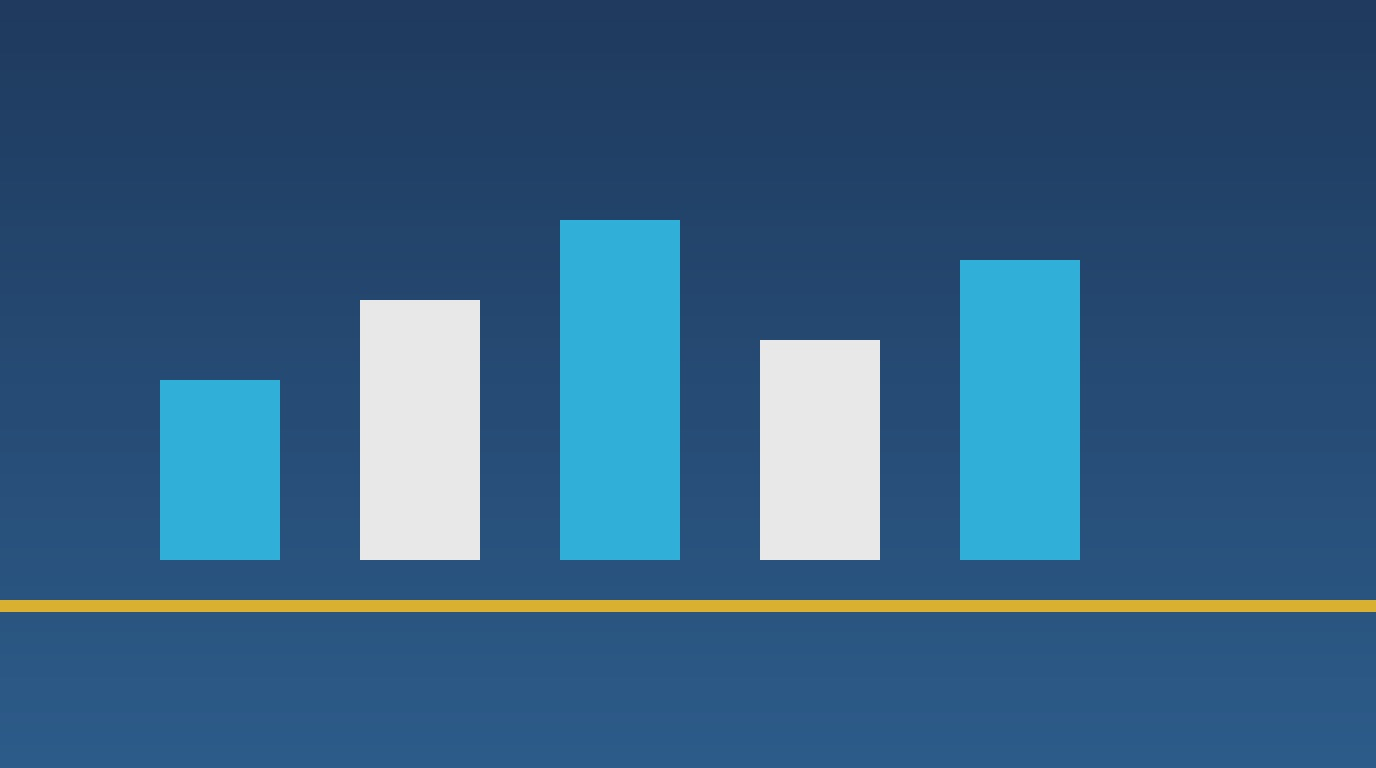
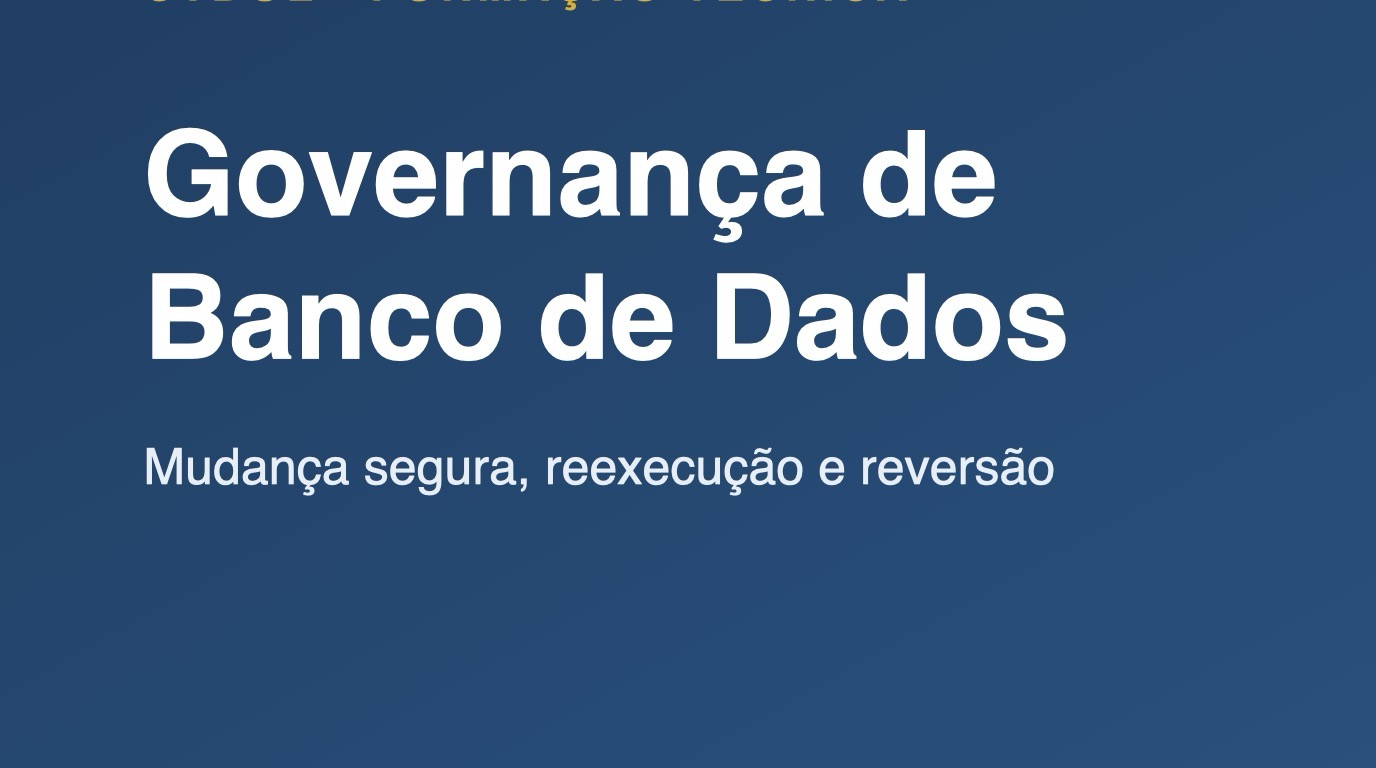
feat(cursos): ampliar governanca-banco-dados com glossário, exercícios, laboratório e capa com título
Aulas expandidas (de 937 para cerca de 1.700 palavras), com glossário e exercícios
em cada uma. Laboratório de aplicação do gate de governança (aula 05). Capa com
título e identidade CTDOL, em 16:9. Títulos das aulas mantidos, para que a
atualização no Moodle seja feita in place.

diff --git a/courses/governanca-banco-dados/lessons/03-migracoes-versionadas-e-reexecutaveis.md b/courses/governanca-banco-dados/lessons/03-migracoes-versionadas-e-reexecutaveis.md
@@ -1,21 +1,42 @@
 # Aula 03: Migrações versionadas e reexecutáveis (Nível N2)
 
 ## Objetivo
-Escrever migrações que podem ser reexecutadas sem quebrar o banco.
+Escrever migrações que podem ser reexecutadas sem quebrar o banco, e entender por que a reexecução acontece.
 
 ## Versionamento
-Cada migração tem um identificador e uma ordem. Uma migração aplicada nunca é editada. Se algo estiver errado, a correção é uma nova migração.
+Cada migração tem um identificador e uma ordem. Uma migração aplicada nunca é editada. Se algo estiver errado, a correção é uma nova migração que vem depois.
 
-## Por que reexecutar acontece
-Um pipeline falha no meio e é reexecutado. Alguém roda o script duas vezes por engano. Dois ambientes recebem a mesma mudança em momentos diferentes. Em qualquer desses casos, a migração pode rodar mais de uma vez.
+## Por que a reexecução acontece
+- Um pipeline falha no meio e é reexecutado do início.
+- Alguém roda o script duas vezes por engano.
+- Dois ambientes recebem a mesma mudança em momentos diferentes.
+
+Em qualquer desses casos, a migração pode rodar mais de uma vez. Se o segundo disparo falhar com "coluna já existe", um incidente pequeno vira uma implantação bloqueada.
 
 ## Idempotência
-Uma operação é idempotente quando executá-la uma vez ou várias vezes produz o mesmo estado final. Na prática, isso se obtém de duas formas:
-1. **Guarda de existência:** antes de criar, verifica-se se o objeto já existe. Por exemplo, `IF NOT EXISTS`, ou uma consulta ao catálogo do banco.
-2. **Tabela de controle:** registra-se quais migrações já foram aplicadas, de forma que o registro não se duplique em uma nova execução.
+Uma operação é idempotente quando executá-la uma vez ou várias vezes produz o mesmo estado final. Na prática, há duas formas de obter isso:
+1. **Guarda de existência:** antes de criar, verifica-se se o objeto já existe. Por exemplo, usando a cláusula `IF NOT EXISTS`, ou uma consulta ao catálogo do banco.
+2. **Tabela de controle:** registra-se quais migrações já foram aplicadas, e o registro não se duplica numa nova execução.
+
+## Exemplo
+Uma migração que adiciona a coluna `ultimo_acesso`:
+- Versão frágil: `ALTER TABLE usuarios ADD COLUMN ultimo_acesso TIMESTAMP;` falha na segunda execução.
+- Versão reexecutável: primeiro verifica se a coluna existe; só então adiciona. A segunda execução não faz nada.
 
 ## Um detalhe que depende do motor
-Em alguns motores, uma instrução de mudança de esquema é confirmada sozinha. Se uma migração de várias etapas falha no meio, o banco fica pela metade, sem reversão automática. Por isso, a guarda precisa funcionar sem depender de rollback.
+Em alguns motores, uma instrução de mudança de esquema é confirmada sozinha. Se uma migração de várias etapas falha no meio, o banco fica pela metade, sem reversão automática. Por isso, a guarda precisa funcionar sem depender de rollback. Antes de escrever a migração, vale saber como o motor trata a mudança de esquema dentro de uma transação.
+
+## Glossário
+- **Migração:** arquivo com uma mudança de esquema ou de dados, com identificador e ordem.
+- **Idempotente:** que produz o mesmo resultado independentemente do número de execuções.
+- **Guarda de existência:** verificação antes de criar ou remover um objeto.
+- **Tabela de controle:** registro das migrações já aplicadas no banco.
+- **Reexecução:** nova execução de uma migração, por retry ou por engano.
+
+## Exercícios
+1. Escreva, em pseudocódigo, uma migração que cria uma tabela `logs_acesso` de forma reexecutável.
+2. Explique por que editar uma migração já aplicada em produção pode divergir os ambientes.
+3. Dada uma migração que altera três colunas, descreva o que acontece se a execução parar após a segunda.
 
 ## Verificação rápida
 - Por que editar uma migração já aplicada em produção é um erro?

diff --git a/courses/governanca-banco-dados/lessons/01-o-banco-como-estado.md b/courses/governanca-banco-dados/lessons/01-o-banco-como-estado.md
@@ -1,19 +1,31 @@
 # Aula 01: O banco como estado e a governança da mudança (Nível N0)
 
 ## Objetivo
-Entender por que a mudança em banco de dados exige um tratamento diferente da mudança de código.
+Entender por que a mudança em banco de dados exige um tratamento diferente da mudança de código, e reconhecer os riscos de uma alteração feita fora de controle.
 
 ## O problema
-Código pode ser reimplantado a partir de um commit. O banco não. Ele guarda dados, e cada mudança se acumula sobre a anterior. Por isso, um ajuste feito à mão em um ambiente e esquecido no roteiro de produção só aparece quando uma requisição falha.
+Código pode ser reimplantado a partir de um commit. O banco não. Ele guarda dados, e cada mudança se acumula sobre a anterior. Um ajuste de estrutura feito à mão em um ambiente, e esquecido no roteiro de produção, aparece só quando uma requisição falha.
+
+Imagine um sistema com tabelas de clientes e pedidos. A equipe adiciona uma coluna para o status do pedido. Em homologação, o comando é rodado. Em produção, ninguém roda. Na próxima versão do código, a aplicação lê a coluna, recebe um erro e para de funcionar. Nenhuma linha de código estava errada: o estado do banco é que não acompanhava o código.
 
 ## Três ideias centrais
-1. **Versionar o esquema:** a estrutura do banco fica sob controle de versão, do mesmo modo que o código. Toda mudança entra por revisão antes de atingir qualquer banco.
-2. **Mudança pequena e ordenada:** cada alteração é uma migração com identificador e ordem. Nenhuma migração já aplicada é reescrita.
-3. **Mudança que não quebra quem já usa o banco:** a alteração acontece em fases que coexistem, de forma que a versão antiga continue funcionando até o último consumidor migrar.
+1. **Versionar o esquema:** a estrutura do banco fica sob controle de versão, do mesmo jeito que o código. Toda mudança passa por revisão antes de atingir qualquer banco.
+2. **Mudança pequena e ordenada:** cada alteração é uma migração, com identificador e ordem. Uma migração já aplicada não é reescrita.
+3. **Mudança que não quebra quem usa o banco:** a alteração acontece em fases que coexistem, de forma que a versão antiga continue funcionando até o último consumidor migrar.
 
-## O que você deve levar desta aula
-- Mudança de banco é mudança de estado. Reverter nem sempre é possível.
-- A governança é a régua que define quando uma mudança pode seguir.
+## Por que isso importa para a governança
+A governança é a régua que decide quando uma mudança pode seguir. Ela responde a três perguntas: esta mudança é rastreável? Ela pode ser repetida sem dano? E, se der errado, até onde é possível voltar? As próximas aulas tratam cada uma dessas perguntas.
+
+## Glossário
+- **Esquema:** a estrutura do banco, com tabelas, colunas, chaves e restrições.
+- **Migração:** uma alteração do esquema ou dos dados, com identificador e ordem.
+- **Estado:** o conjunto de dados e de estrutura em um momento. Banco é estado; código é texto.
+- **Governança de mudança:** o conjunto de regras que decide quando e como uma mudança entra.
+
+## Exercícios
+1. Liste três situações em que um `ALTER` feito à mão em produção causaria problema.
+2. Explique, em duas frases, por que reimplantar código é mais simples do que reimplantar um banco.
+3. Dê um exemplo de mudança de banco que você consideraria arriscada, e diga por quê.
 
 ## Verificação rápida
 - Por que um `ALTER` feito à mão em produção é um risco?

diff --git a/courses/governanca-banco-dados/lessons/04-privilegio-auditoria-e-reversao.md b/courses/governanca-banco-dados/lessons/04-privilegio-auditoria-e-reversao.md
@@ -4,21 +4,37 @@
 Controlar quem pode mudar o banco, registrar quem mudou e saber até onde é possível voltar.
 
 ## Privilégio mínimo
-Cada conta de banco recebe apenas as permissões que a aplicação precisa para funcionar. Isso significa separar o papel que executa migrações do papel que a aplicação usa. A aplicação não deve ter permissão de alteração de esquema. Uma falha na aplicação, assim, não vira uma alteração destrutiva do banco.
+Cada conta de banco recebe apenas as permissões que o sistema precisa para funcionar. Na prática, isso significa separar dois papéis: o que executa migrações e o que a aplicação usa no dia a dia. A aplicação não deve ter permissão de alterar o esquema. Assim, uma falha na aplicação não vira uma alteração destrutiva do banco.
+
+Um exemplo: a aplicação lê e grava nos pedidos, mas não pode apagar tabelas. A migração roda com uma conta própria, usada só durante a implantação.
 
 ## Auditoria
-A aplicação de cada mudança precisa ficar registrada, com autor, data e identificador. O registro precisa ser protegido contra alteração:
+A aplicação de cada mudança precisa ficar registrada, com autor, data e identificador. O registro também precisa ser protegido contra alteração:
 - detectar se um registro foi modificado ou apagado;
 - guardar cópias em mídia somente leitura, quando possível;
 - restringir e revisar quem pode ler o registro.
 
+Um registro que pode ser editado por quem ele audita perde o valor de prova.
+
 ## Reversão por tipo de mudança
 - **Expansão:** reverter remove a estrutura nova. Só se perdem os dados gravados nela depois da expansão.
 - **Migração de dados:** reverter limpa a estrutura nova e reinicia a migração. Não há perda enquanto a antiga continua viva.
-- **Contração:** reverter exige restaurar um backup. Há perda de dados.
+- **Contração:** reverter exige restaurar um backup. Há perda de dados desde a contração.
 
 ## Em produção
 A correção de um erro em produção normalmente é uma nova migração para frente, e não uma reversão. Reverter por migração em produção só com ordem explícita e backup verificado.
+
+## Glossário
+- **Privilégio mínimo:** princípio de dar a cada conta só as permissões necessárias.
+- **Papel:** identidade de acesso no banco, com permissões próprias.
+- **Trilha de auditoria:** registro protegido de quem mudou o quê e quando.
+- **Ponto sem volta:** o passo a partir do qual reverter depende de backup.
+- **Backup verificado:** cópia de segurança que foi restaurada e testada.
+
+## Exercícios
+1. Liste as permissões mínimas que uma aplicação de cadastro de clientes precisa.
+2. Descreva o que um atacante ganharia se a aplicação tivesse permissão de criar e apagar tabelas.
+3. Para uma contração já feita, descreva o plano de reversão, e diga em que momento ele deixa de ser possível sem backup.
 
 ## Verificação rápida
 - Qual papel deve executar a migração, e qual deve ser o da aplicação?

diff --git a/courses/governanca-banco-dados/lessons/05-laboratorio-gate-de-governanca.md b/courses/governanca-banco-dados/lessons/05-laboratorio-gate-de-governanca.md
@@ -1,0 +1,51 @@
+# Laboratório: aplicando o gate de governança de banco (Nível N3)
+
+## Objetivo
+Analisar uma mudança de banco com a mesma régua de oito critérios usada pelas equipes, e registrar a decisão com evidência.
+
+## O cenário
+A equipe quer renomear a coluna `telefone` da tabela `clientes` para `telefone_principal`, e remover a coluna antiga no mesmo passo. O plano é uma única migração, rodada em todos os ambientes na mesma semana.
+
+## Tarefa
+Leia o plano acima e responda, para cada critério, se ele está atendido, não atendido, ou não se aplica. Cite a evidência do próprio plano.
+
+| Critério | O que exige | Sua resposta |
+| :-: | :--- | :-: |
+| G1 | Migração versionada, com identificador e ordem | |
+| G2 | Reexecução segura, com guarda de existência | |
+| G3 | Mudança destrutiva em fases: expandir, migrar, contrair | |
+| G4 | Integridade referencial declarada no esquema | |
+| G5 | Privilégio mínimo: a aplicação sem permissão de alterar o esquema | |
+| G6 | Auditoria: quem aplicou, quando e com qual identificador | |
+| G7 | Reversão declarada, com ponto sem volta identificado | |
+| G8 | Mesma migração, mesma ordem, em todos os ambientes | |
+
+## Veredito
+Com base na tabela, escolha um dos três vereditos:
+- **Aprovado:** todos os critérios aplicáveis, com evidência.
+- **Aprovado com lacunas registradas:** G5, G6 ou G7 pendentes, com decisão do responsável anotada.
+- **Bloqueado:** qualquer critério G1 a G4 ou G8 sem evidência. A mudança não avança.
+
+## O que esperar
+O plano tem um problema central: remover a coluna antiga no mesmo passo quebra a fase de contração. A aplicação que ainda lê `telefone` vai falhar. O veredito correto é **bloqueado**, com a recomendação de dividir o trabalho em três fases.
+
+## Reescrevendo o plano
+Refaça o plano em três migrações, uma por fase. Para cada uma, escreva:
+1. o identificador;
+2. a guarda de existência;
+3. a condição para avançar à próxima fase;
+4. o que fazer se a fase falhar.
+
+## Glossário
+- **Gate:** ponto de controle que impede a mudança de avançar sem evidência.
+- **Veredito:** decisão final do gate, com base nos critérios.
+- **Evidência:** trecho, arquivo ou registro que comprova um critério.
+
+## Exercícios
+1. Reescreva a análise supondo que a equipe tenha uma conta separada para migrações. Quais critérios mudam?
+2. Explique por que o veredito "aprovado com lacunas" não serve quando o critério G1 está em aberto.
+3. Escreva uma frase que a equipe possa usar para justificar o veredito "bloqueado" a um gerente de produto.
+
+## Verificação rápida
+- Qual critério o plano atende melhor, e qual atende pior?
+- Em qual fase a coluna antiga deve ser removida?

diff --git a/courses/governanca-banco-dados/lessons/02-mudanca-em-fases.md b/courses/governanca-banco-dados/lessons/02-mudanca-em-fases.md
@@ -9,14 +9,30 @@ Uma mudança incompatível é quebrada em três fases:
 - **Migrar:** os dados são copiados ou transformados, e os consumidores passam a usar a estrutura nova, aos poucos.
 - **Contrair:** depois que nenhum consumidor usa a estrutura antiga, ela é removida.
 
-## Exemplo em banco
-Para renomear uma coluna, a fase de expansão cria a coluna nova e passa a gravar nas duas. A migração copia os dados antigos. Só então as leituras mudam para a coluna nova. A contração remove a coluna antiga.
+## Exemplo: renomear uma coluna
+Suponha que a coluna `nome_cliente` precise se chamar `nome_completo`.
+1. **Expansão:** cria-se `nome_completo`. A aplicação passa a gravar nas duas colunas. As leituras continuam usando `nome_cliente`.
+2. **Migração:** um processo copia os valores antigos para a coluna nova, em lotes. Quando a cópia termina, as leituras mudam para `nome_completo`.
+3. **Contração:** após um período de observação, `nome_cliente` é removida.
+
+Em cada passo, a aplicação continua funcionando. Se algo der errado antes da contração, é possível voltar sem perda.
 
 ## Por que funciona
 Cada fase pode ser implantada sozinha. O risco fica fatiado, e a versão antiga continua disponível até a migração terminar.
 
-## Cuidado com a contração
-A contração é o ponto sem volta. Antes dela, reverter é limpar a estrutura nova. Depois, reverter exige restaurar dados de um backup, com possível perda. Por isso, a contração só acontece depois de um período em que nenhum consumidor usa a estrutura antiga.
+## O ponto sem volta
+A contração é o passo mais perigoso. Antes dela, reverter é apagar a estrutura nova. Depois, reverter exige restaurar um backup, com possível perda de dados. Por isso, a contração só acontece depois de um período em que nenhum consumidor usa a estrutura antiga. Um bom critério é esperar um ciclo completo do negócio, como um fechamento mensal, antes de remover.
+
+## Glossário
+- **Expansão:** a fase em que a estrutura nova convive com a antiga.
+- **Migração de dados:** a fase em que os dados são copiados e as leituras mudam de lugar.
+- **Contração:** a remoção da estrutura antiga. É o único passo sem volta fácil.
+- **Consumidor:** qualquer parte do sistema ou outro sistema que lê ou grava na estrutura.
+
+## Exercícios
+1. Em qual fase a aplicação passa a gravar nas duas colunas? Por quê?
+2. Descreva o que aconteceria se a contração fosse feita antes de todos os consumidores migrarem.
+3. Quantos dias ou ciclos de negócio você esperaria antes de contrair uma coluna usada em relatório mensal? Justifique.
 
 ## Verificação rápida
 - Em qual fase a estrutura antiga é removida?
